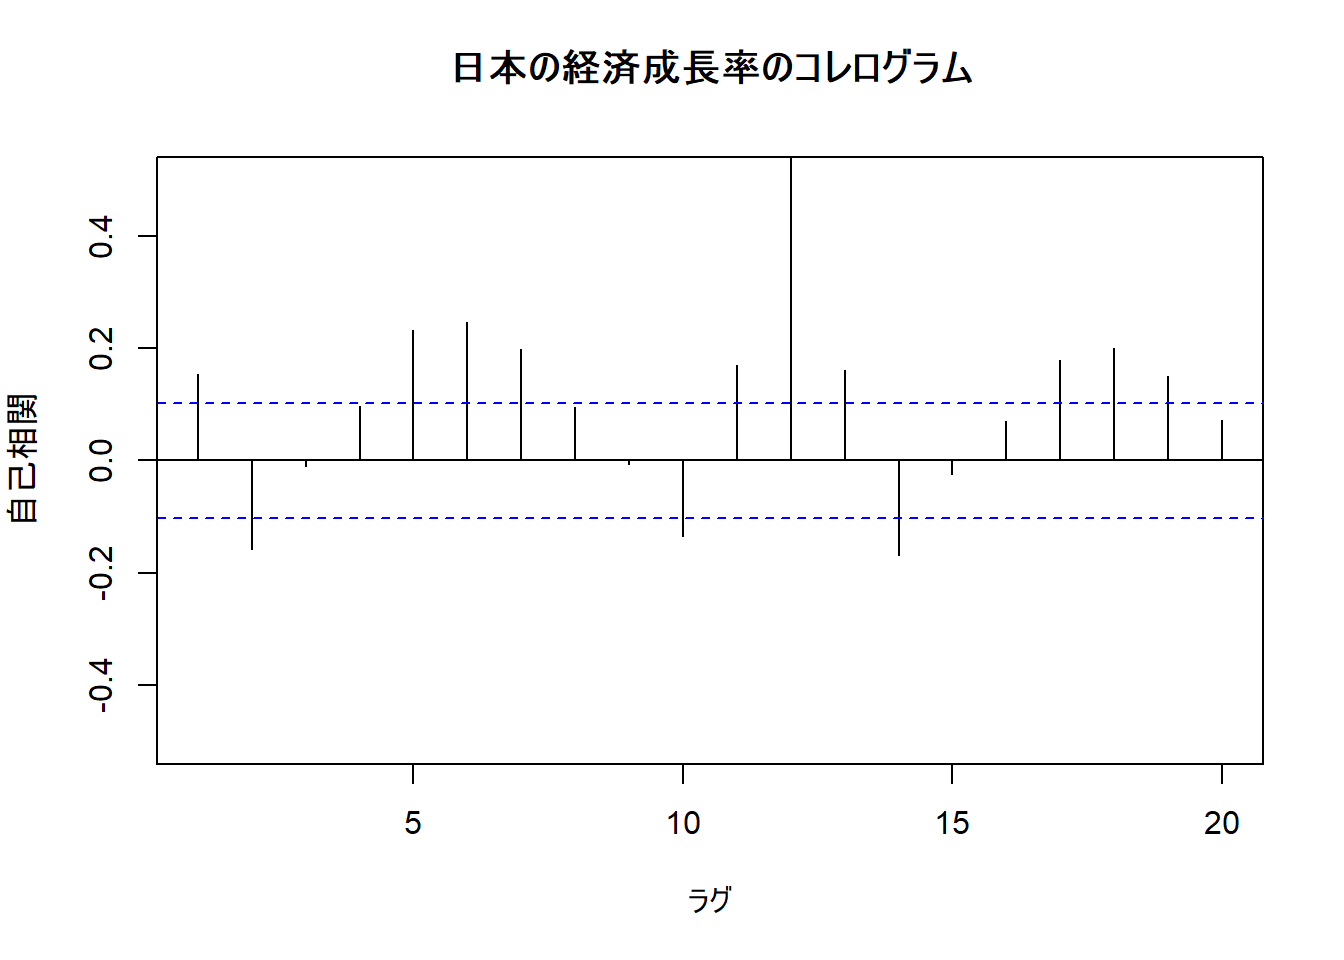
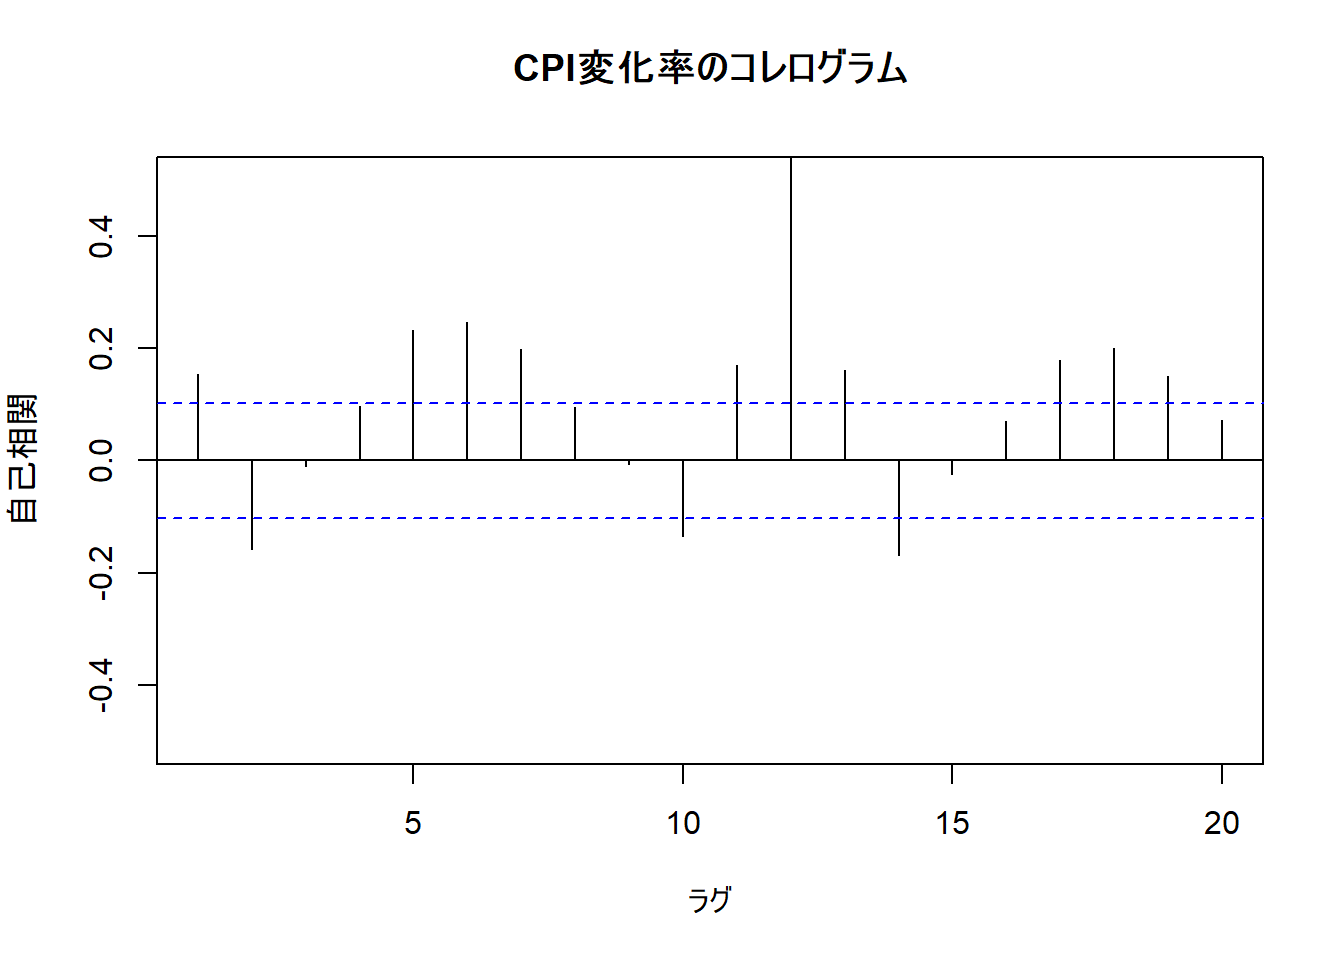
誤字の修正

Changed region(s): [[0.3125, 0.0312, 0.7188, 0.0938]]

diff --git a/Ch1/p-17.html b/Ch1/p-17.html
@@ -133,12 +133,12 @@ code > span.in { color: #60a0b0; font-weight: bold; font-style: italic; } /* Inf
 <p>弱定常過程はp.24に載っている<span class="math inline">\(y_{t}=\mu+\epsilon_{t}, \epsilon_{t} \sim W . N .\left(\sigma^{2}\right)\)</span> 　(1.8)とします。 採用するデータは、<code>JohnsonJohnson</code>にします。このデータは1960〜1980年におけるジョンソン＆ジョンソンのシェアあたりの四半期収益を示す時系列データです。 それでは、問題に取り組んでいきます。</p>
 <div class="sourceCode"><pre class="sourceCode r"><code class="sourceCode r"><span class="co"># 外部パッケージ</span>
 <span class="kw">library</span>(tidyverse)</code></pre></div>
-<pre><code>## -- Attaching packages ------------------------------------------------------------------- tidyverse 1.2.1 --</code></pre>
+<pre><code>## -- Attaching packages ---------------------------------------------------------------------------------------------- tidyverse 1.2.1 --</code></pre>
 <pre><code>## √ ggplot2 2.2.1     √ purrr   0.2.4
 ## √ tibble  1.4.1     √ dplyr   0.7.4
 ## √ tidyr   0.7.2     √ stringr 1.2.0
 ## √ readr   1.1.1     √ forcats 0.2.0</code></pre>
-<pre><code>## -- Conflicts ---------------------------------------------------------------------- tidyverse_conflicts() --
+<pre><code>## -- Conflicts ------------------------------------------------------------------------------------------------- tidyverse_conflicts() --
 ## x dplyr::filter() masks stats::filter()
 ## x dplyr::lag()    masks stats::lag()</code></pre>
 <div class="sourceCode"><pre class="sourceCode r"><code class="sourceCode r"><span class="co"># 対象データ</span>
@@ -336,7 +336,7 @@ table.box.t</code></pre></div>
 <p><em>(5) 他のデータを用いて自己相関の検定を行え。</em> ここでは、消費者物価指数（CPI) を対象とします。</p>
 <div class="sourceCode"><pre class="sourceCode r"><code class="sourceCode r">targetData2 &lt;-<span class="st"> </span><span class="kw">diff</span>(<span class="kw">log</span>(economicdata<span class="op">$</span>cpi))
 <span class="co"># 自己相関の検定</span>
-<span class="kw">acf</span>(targetData2, <span class="dt">type =</span> <span class="st">&quot;correlation&quot;</span>, <span class="dt">main=</span><span class="st">&quot;日本の経済成長率のコレログラム&quot;</span>,
+<span class="kw">acf</span>(targetData2, <span class="dt">type =</span> <span class="st">&quot;correlation&quot;</span>, <span class="dt">main=</span><span class="st">&quot;CPI変化率のコレログラム&quot;</span>,
     <span class="dt">xlim=</span><span class="kw">c</span>(<span class="dv">1</span>, <span class="dv">20</span>), <span class="dt">ylim=</span><span class="kw">c</span>(<span class="op">-</span><span class="fl">0.5</span>, <span class="fl">0.5</span>), <span class="dt">xlab=</span><span class="st">&quot;ラグ&quot;</span>, <span class="dt">ylab=</span><span class="st">&quot;自己相関&quot;</span>)</code></pre></div>
 <p><img src="chapter1_files/figure-html/unnamed-chunk-10-1.png" width="672" /></p>
 <div class="sourceCode"><pre class="sourceCode r"><code class="sourceCode r"><span class="co"># Ljung and Boxの統計量によるかばん検定</span>

diff --git a/index.html b/index.html
@@ -133,12 +133,12 @@ code > span.in { color: #60a0b0; font-weight: bold; font-style: italic; } /* Inf
 <p>弱定常過程はp.24に載っている<span class="math inline">\(y_{t}=\mu+\epsilon_{t}, \epsilon_{t} \sim W . N .\left(\sigma^{2}\right)\)</span> 　(1.8)とします。 採用するデータは、<code>JohnsonJohnson</code>にします。このデータは1960〜1980年におけるジョンソン＆ジョンソンのシェアあたりの四半期収益を示す時系列データです。 それでは、問題に取り組んでいきます。</p>
 <div class="sourceCode"><pre class="sourceCode r"><code class="sourceCode r"><span class="co"># 外部パッケージ</span>
 <span class="kw">library</span>(tidyverse)</code></pre></div>
-<pre><code>## -- Attaching packages ------------------------------------------------------------------- tidyverse 1.2.1 --</code></pre>
+<pre><code>## -- Attaching packages ---------------------------------------------------------------------------------------------- tidyverse 1.2.1 --</code></pre>
 <pre><code>## √ ggplot2 2.2.1     √ purrr   0.2.4
 ## √ tibble  1.4.1     √ dplyr   0.7.4
 ## √ tidyr   0.7.2     √ stringr 1.2.0
 ## √ readr   1.1.1     √ forcats 0.2.0</code></pre>
-<pre><code>## -- Conflicts ---------------------------------------------------------------------- tidyverse_conflicts() --
+<pre><code>## -- Conflicts ------------------------------------------------------------------------------------------------- tidyverse_conflicts() --
 ## x dplyr::filter() masks stats::filter()
 ## x dplyr::lag()    masks stats::lag()</code></pre>
 <div class="sourceCode"><pre class="sourceCode r"><code class="sourceCode r"><span class="co"># 対象データ</span>
@@ -336,7 +336,7 @@ table.box.t</code></pre></div>
 <p><em>(5) 他のデータを用いて自己相関の検定を行え。</em> ここでは、消費者物価指数（CPI) を対象とします。</p>
 <div class="sourceCode"><pre class="sourceCode r"><code class="sourceCode r">targetData2 &lt;-<span class="st"> </span><span class="kw">diff</span>(<span class="kw">log</span>(economicdata<span class="op">$</span>cpi))
 <span class="co"># 自己相関の検定</span>
-<span class="kw">acf</span>(targetData2, <span class="dt">type =</span> <span class="st">&quot;correlation&quot;</span>, <span class="dt">main=</span><span class="st">&quot;日本の経済成長率のコレログラム&quot;</span>,
+<span class="kw">acf</span>(targetData2, <span class="dt">type =</span> <span class="st">&quot;correlation&quot;</span>, <span class="dt">main=</span><span class="st">&quot;CPI変化率のコレログラム&quot;</span>,
     <span class="dt">xlim=</span><span class="kw">c</span>(<span class="dv">1</span>, <span class="dv">20</span>), <span class="dt">ylim=</span><span class="kw">c</span>(<span class="op">-</span><span class="fl">0.5</span>, <span class="fl">0.5</span>), <span class="dt">xlab=</span><span class="st">&quot;ラグ&quot;</span>, <span class="dt">ylab=</span><span class="st">&quot;自己相関&quot;</span>)</code></pre></div>
 <p><img src="chapter1_files/figure-html/unnamed-chunk-10-1.png" width="672" /></p>
 <div class="sourceCode"><pre class="sourceCode r"><code class="sourceCode r"><span class="co"># Ljung and Boxの統計量によるかばん検定</span>
